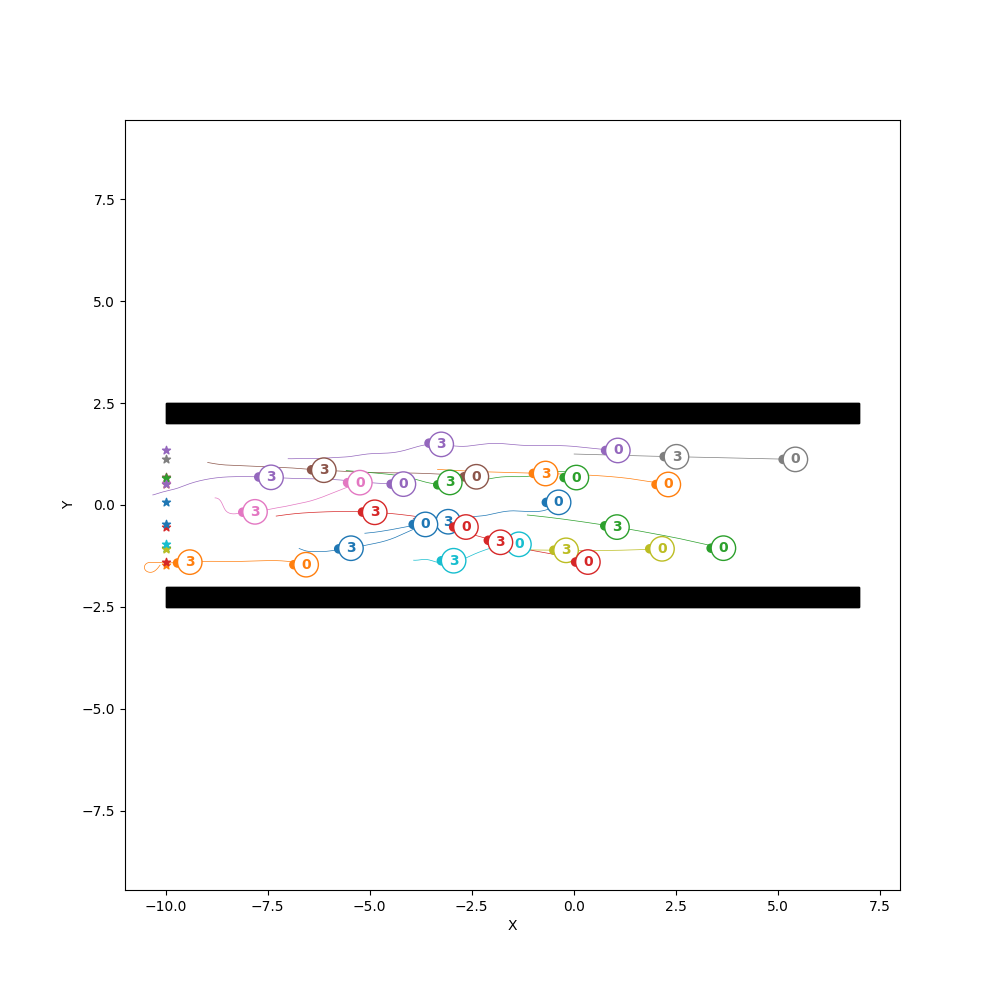
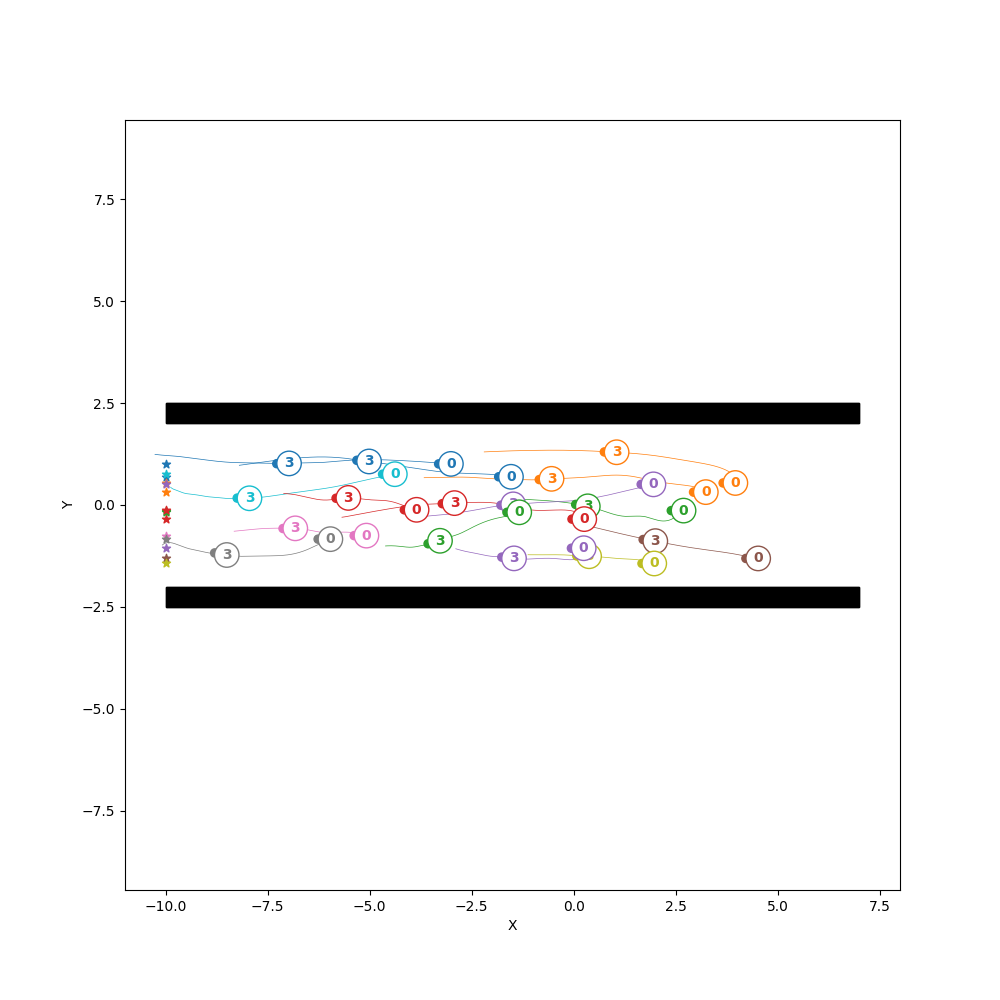
add example4 with custom trials

Changed region(s): [[0.155, 0.434, 0.775, 0.589], [0.775, 0.434, 0.806, 0.465]]

diff --git a/jhsfm/hsfm.py b/jhsfm/hsfm.py
@@ -92,17 +92,31 @@ def pairwise_social_force(human_state:jnp.ndarray, other_human_state:jnp.ndarray
     output:
     - social_force: shape is (2,) in the form (fx, fy)
     """
-    rij = parameters[0] + other_human_parameters[0] + parameters[18] + other_human_parameters[18]
-    diff = human_state[:2] - other_human_state[:2]
-    dist = jnp.linalg.norm(diff)
-    nij = diff / dist
-    real_dist = rij - dist
-    tij = jnp.array([-nij[1], nij[0]])
-    human_linear_velocity = get_linear_velocity(human_state[4], human_state[2:4])
-    other_human_linear_velocity = get_linear_velocity(other_human_state[4], other_human_state[2:4])
-    delta_vij = jnp.dot(other_human_linear_velocity - human_linear_velocity, tij)
-    pairwise_social_force = lax.cond(real_dist > 0, lambda x: x * (parameters[4] * jnp.exp(real_dist / parameters[6]) + parameters[12] * real_dist) * nij + (parameters[8] * jnp.exp(real_dist / parameters[10]) + parameters[13] * real_dist * delta_vij) * tij, lambda x: x * (parameters[4] * jnp.exp(real_dist / parameters[6])) * nij + (parameters[8] * jnp.exp(real_dist / parameters[10])) * tij, jnp.ones((2,)))
+    def compute_social_force(human_state:jnp.ndarray, other_human_state:jnp.ndarray, parameters:jnp.ndarray, other_human_parameters:jnp.ndarray):
+        rij = parameters[0] + other_human_parameters[0] + parameters[18] + other_human_parameters[18]
+        diff = human_state[:2] - other_human_state[:2]
+        dist = jnp.linalg.norm(diff)
+        nij = diff / dist
+        real_dist = rij - dist
+        tij = jnp.array([-nij[1], nij[0]])
+        human_linear_velocity = get_linear_velocity(human_state[4], human_state[2:4])
+        other_human_linear_velocity = get_linear_velocity(other_human_state[4], other_human_state[2:4])
+        delta_vij = jnp.dot(other_human_linear_velocity - human_linear_velocity, tij)
+        pairwise_social_force = lax.cond(
+            real_dist > 0, 
+            lambda _: (parameters[4] * jnp.exp(real_dist / parameters[6]) + parameters[12] * real_dist) * nij + (parameters[8] * jnp.exp(real_dist / parameters[10]) + parameters[13] * real_dist * delta_vij) * tij, 
+            lambda _: (parameters[4] * jnp.exp(real_dist / parameters[6])) * nij + (parameters[8] * jnp.exp(real_dist / parameters[10])) * tij, 
+            None)
+        return pairwise_social_force
+    
+    pairwise_social_force = lax.cond(
+        jnp.all(human_state == other_human_state), # In case the human is the same as the other human, social force should not be computed
+        lambda _: jnp.zeros((2,)),
+        lambda _: compute_social_force(human_state, other_human_state, parameters, other_human_parameters),
+        None)
+    
     return pairwise_social_force
+vectorized_pairwise_social_force = vmap(pairwise_social_force, in_axes=(None, 0, None, 0))
 
 @jit
 def compute_obstacle_force(human_state:jnp.ndarray, obstacle:jnp.ndarray, parameters:jnp.ndarray):
@@ -151,9 +165,22 @@ def single_update(idx:int, humans_state:jnp.ndarray, human_goal:jnp.ndarray, par
     linear_velocity = get_linear_velocity(self_state[4], self_state[2:4])
     diff = human_goal - self_state[:2]
     dist = jnp.linalg.norm(diff)
-    desired_force =  lax.cond(dist > self_parameters[0],lambda x: x * (self_parameters[1] * (((diff / dist) * self_parameters[2]) - linear_velocity) / self_parameters[3]),lambda x: x * 0,jnp.ones((2,)))
+    desired_force =  lax.cond(
+        dist > self_parameters[0],
+        lambda _: (self_parameters[1] * (((diff / dist) * self_parameters[2]) - linear_velocity) / self_parameters[3]),
+        lambda _: jnp.zeros((2,)),
+        None)
     # Social force computation
-    social_force = lax.fori_loop(0, len(humans_state), lambda j, acc: lax.cond(j != idx, lambda acc: acc + pairwise_social_force(self_state, humans_state[j], self_parameters, parameters[j]), lambda acc: acc, acc), jnp.zeros((2,)))
+    social_force = lax.fori_loop(
+        0, 
+        len(humans_state), 
+        lambda j, acc: lax.cond(
+            j != idx, 
+            lambda acc: acc + pairwise_social_force(self_state, humans_state[j], self_parameters, parameters[j]), 
+            lambda acc: acc, 
+            acc), 
+        jnp.zeros((2,)))
+    # social_force = jnp.sum(vectorized_pairwise_social_force(self_state, humans_state, self_parameters, parameters), axis=0)
     # Obstacle force computation
     closest_points = vectorized_compute_obstacle_closest_point(self_state[:2], obstacles)
     obstacle_force = jnp.sum(vectorized_compute_obstacle_force(self_state, closest_points, self_parameters), axis=0) / len(obstacles)
@@ -166,10 +193,11 @@ def single_update(idx:int, humans_state:jnp.ndarray, human_goal:jnp.ndarray, par
     k_omega = inertia * (1 + self_parameters[16]) * jnp.sqrt((self_parameters[17] * input_force_norm) / self_parameters[16])
     torque = - k_theta * wrap_angle(self_state[4] - input_force_angle) - k_omega * self_state[5]
     # Global force computation
-    global_force = jnp.zeros((2,))
-    global_force = global_force.at[0].set(jnp.dot(input_force, jnp.array([jnp.cos(self_state[4]), jnp.sin(self_state[4])])))
-    global_force = global_force.at[1].set(self_parameters[14] * jnp.dot(social_force + obstacle_force, jnp.array([-jnp.sin(self_state[4]), jnp.cos(self_state[4])])) - self_parameters[15] * self_state[3])
+    global_force = jnp.array([
+        jnp.dot(input_force, jnp.array([jnp.cos(self_state[4]), jnp.sin(self_state[4])])),
+        self_parameters[14] * jnp.dot(social_force + obstacle_force, jnp.array([-jnp.sin(self_state[4]), jnp.cos(self_state[4])])) - self_parameters[15] * self_state[3]])
     # Update
+    ## BOUND BODY VELOCITY
     updated_human_state = jnp.zeros((6,))
     updated_human_state = updated_human_state.at[0].set(self_state[0] + dt * linear_velocity[0])
     updated_human_state = updated_human_state.at[1].set(self_state[1] + dt * linear_velocity[1])
@@ -207,6 +235,5 @@ def step(humans_state:jnp.ndarray, humans_goal:jnp.ndarray, parameters:jnp.ndarr
     output:
     - updated_humans_state: shape is (n_humans, 6) where each row is (px, py, bvx, bvy, theta, omega)
     """
-    idxs = jnp.arange(len(humans_state))
-    updated_humans_state = vectorized_single_update(idxs, humans_state, humans_goal, parameters, obstacles, dt)
+    updated_humans_state = vectorized_single_update(jnp.arange(len(humans_state)), humans_state, humans_goal, parameters, obstacles, dt)
     return updated_humans_state

diff --git a/example4.py b/example4.py
@@ -1,0 +1,61 @@
+from jax import numpy as jnp
+import jax
+import numpy as np
+import matplotlib.pyplot as plt
+import matplotlib.colors as mcolors
+import time
+import os
+import pickle
+from jhsfm.hsfm import step
+from jhsfm.utils import *
+
+# Hyperparameters
+circle_radius = 7
+dt = 0.01
+end_time = 15
+
+# Initial conditions
+with open(os.path.join(os.path.dirname(__file__),"custom_configurations/circular_crossing_5_humans.pkl"), 'rb') as f:
+    initial_configuration = pickle.load(f)
+humans_state = initial_configuration[0]["full_state"][:-1]
+n_humans = humans_state.shape[0]
+humans_goal = initial_configuration[0]["humans_goal"]
+humans_parameters = get_standard_humans_parameters(n_humans)
+static_obstacles = initial_configuration[0]["static_obstacles"]
+
+# Dummy step - Warm-up (we first compile the JIT functions to avoid counting compilation time later)
+_ = step(humans_state, humans_goal, humans_parameters, static_obstacles, dt)
+
+# Simulation 
+steps = int(end_time/dt)
+print(f"\nAvailable devices: {jax.devices()}\n")
+print(f"Starting simulation... - Simulation time: {steps*dt} seconds\n")
+start_time = time.time()
+all_states = np.empty((steps+1, n_humans, 6), np.float32)
+all_states[0] = humans_state
+for i in range(steps):
+    humans_state = step(humans_state, humans_goal, humans_parameters, static_obstacles, dt)
+    all_states[i+1] = humans_state
+end_time = time.time()
+print("Simulation done! Computation time: ", end_time - start_time)
+all_states = jax.device_get(all_states) # Transfer data from GPU to CPU for plotting (only at the end)
+
+# Plot
+COLORS = list(mcolors.TABLEAU_COLORS.values())
+print("\nPlotting...")
+figure, ax = plt.subplots(figsize=(10,10))
+ax.axis('equal')
+ax.set(xlabel='X',ylabel='Y',xlim=[-circle_radius-1,circle_radius+1],ylim=[-circle_radius-1,circle_radius+1])
+for h in range(n_humans): 
+    ax.plot(all_states[:,h,0], all_states[:,h,1], color=COLORS[h%len(COLORS)], linewidth=0.5, zorder=0)
+    ax.scatter(humans_goal[h,0], humans_goal[h,1], marker="*", color=COLORS[h%len(COLORS)], zorder=2)
+    for k in range(0,steps+1,int(3/dt)):
+        head = plt.Circle((all_states[k,h,0] + np.cos(all_states[k,h,4]) * humans_parameters[h,0], all_states[k,h,1] + np.sin(all_states[k,h,4]) * humans_parameters[h,0]), 0.1, color=COLORS[h%len(COLORS)], zorder=1)
+        ax.add_patch(head)
+        circle = plt.Circle((all_states[k,h,0],all_states[k,h,1]),humans_parameters[h,0], edgecolor=COLORS[h%len(COLORS)], facecolor="white", fill=True, zorder=1)
+        ax.add_patch(circle)
+        num = int(k*dt) if (k*dt).is_integer() else (k*dt)
+        ax.text(all_states[k,h,0],all_states[k,h,1], f"{num}", color=COLORS[h%len(COLORS)], va="center", ha="center", size=10, zorder=1, weight='bold')
+for o in static_obstacles: ax.fill(o[:,:,0],o[:,:,1], facecolor='black', edgecolor='black', zorder=3)
+figure.savefig(os.path.join(os.path.dirname(__file__),".images",f"example1.png"), format='png')
+plt.show()

diff --git a/jhsfm/utils.py b/jhsfm/utils.py
@@ -2,8 +2,6 @@ import jax.numpy as jnp
 from jax import jit, vmap, lax, debug, random
 
 # TODO: Add generate random humans parameters function
-# TODO: Add generate random circular crossing scenario initial conditions function
-# TODO: Add generate random parallel traffica initial conditions function
 
 def get_standard_humans_parameters(n_humans:int):
     """
